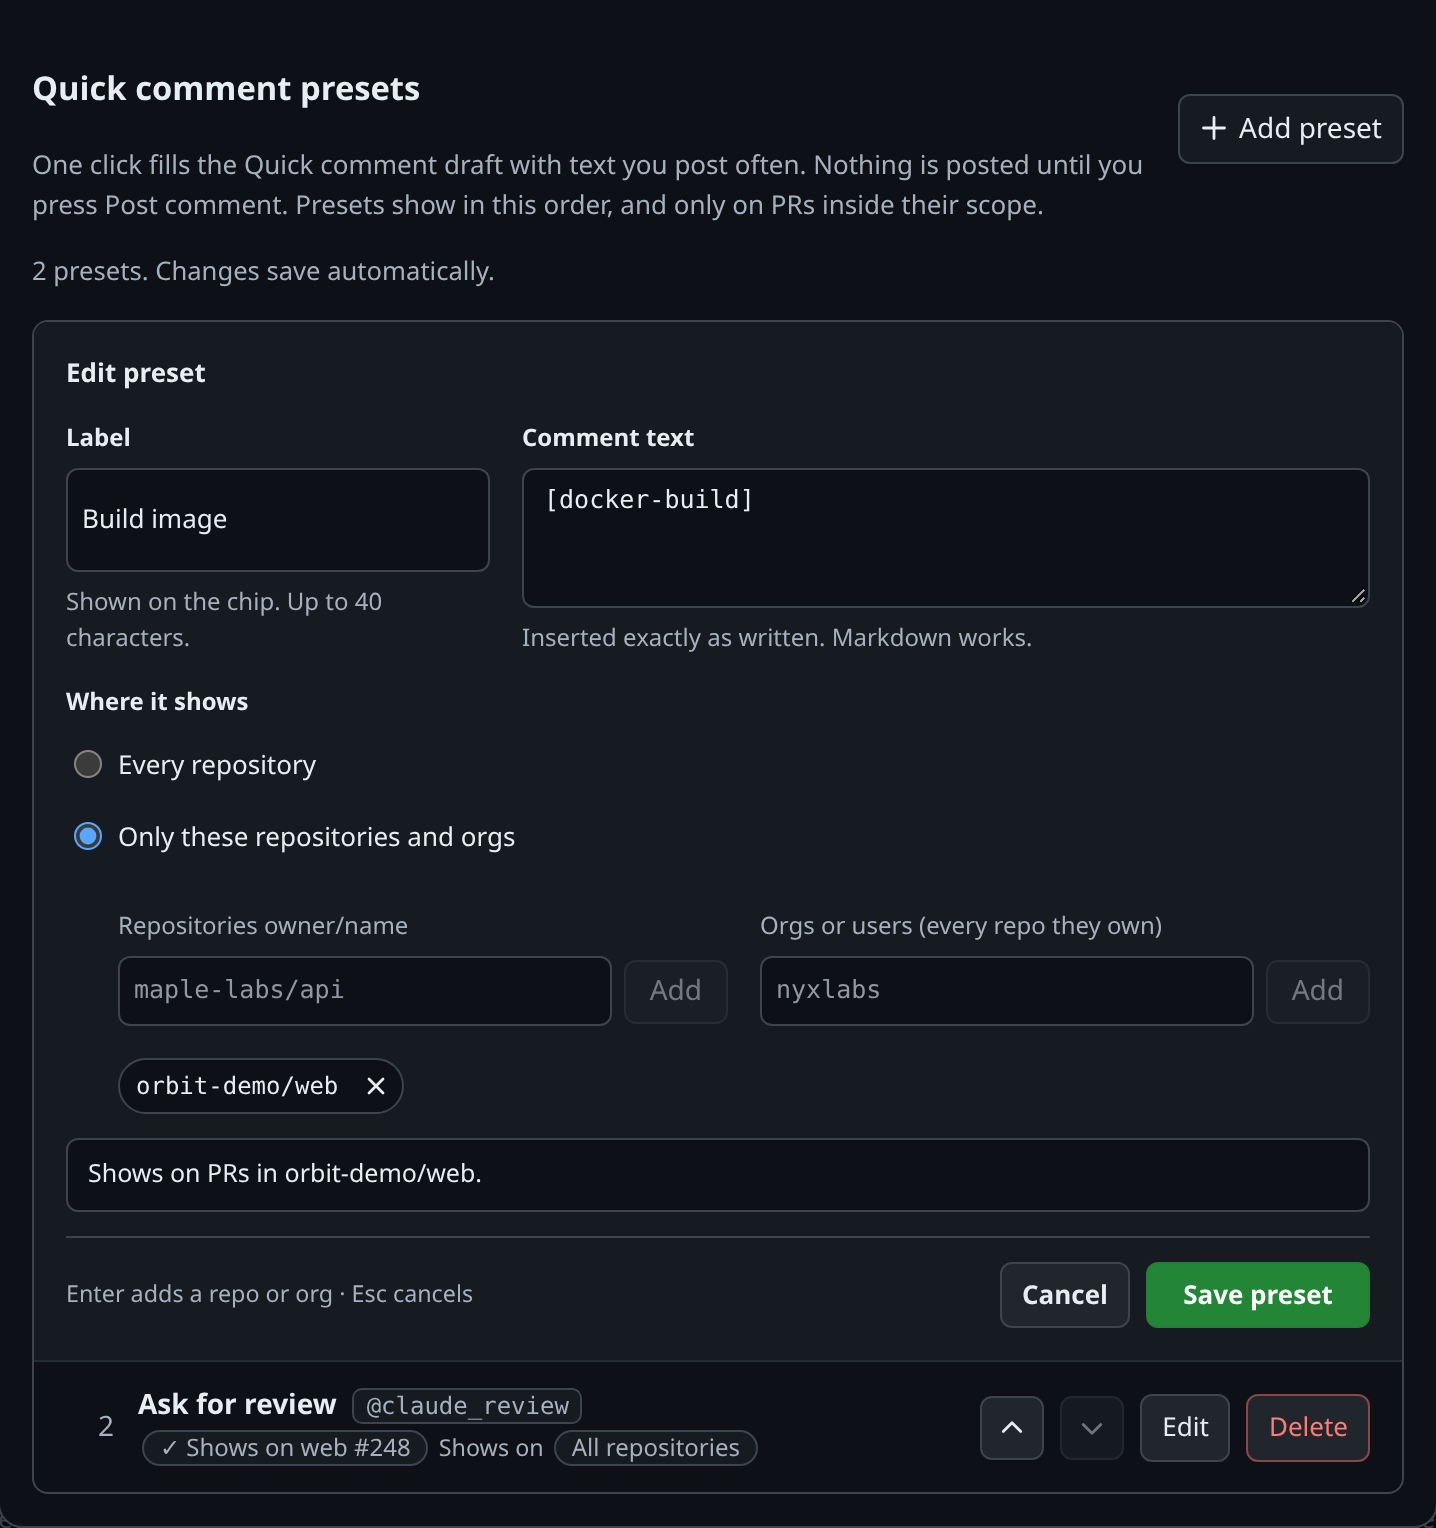
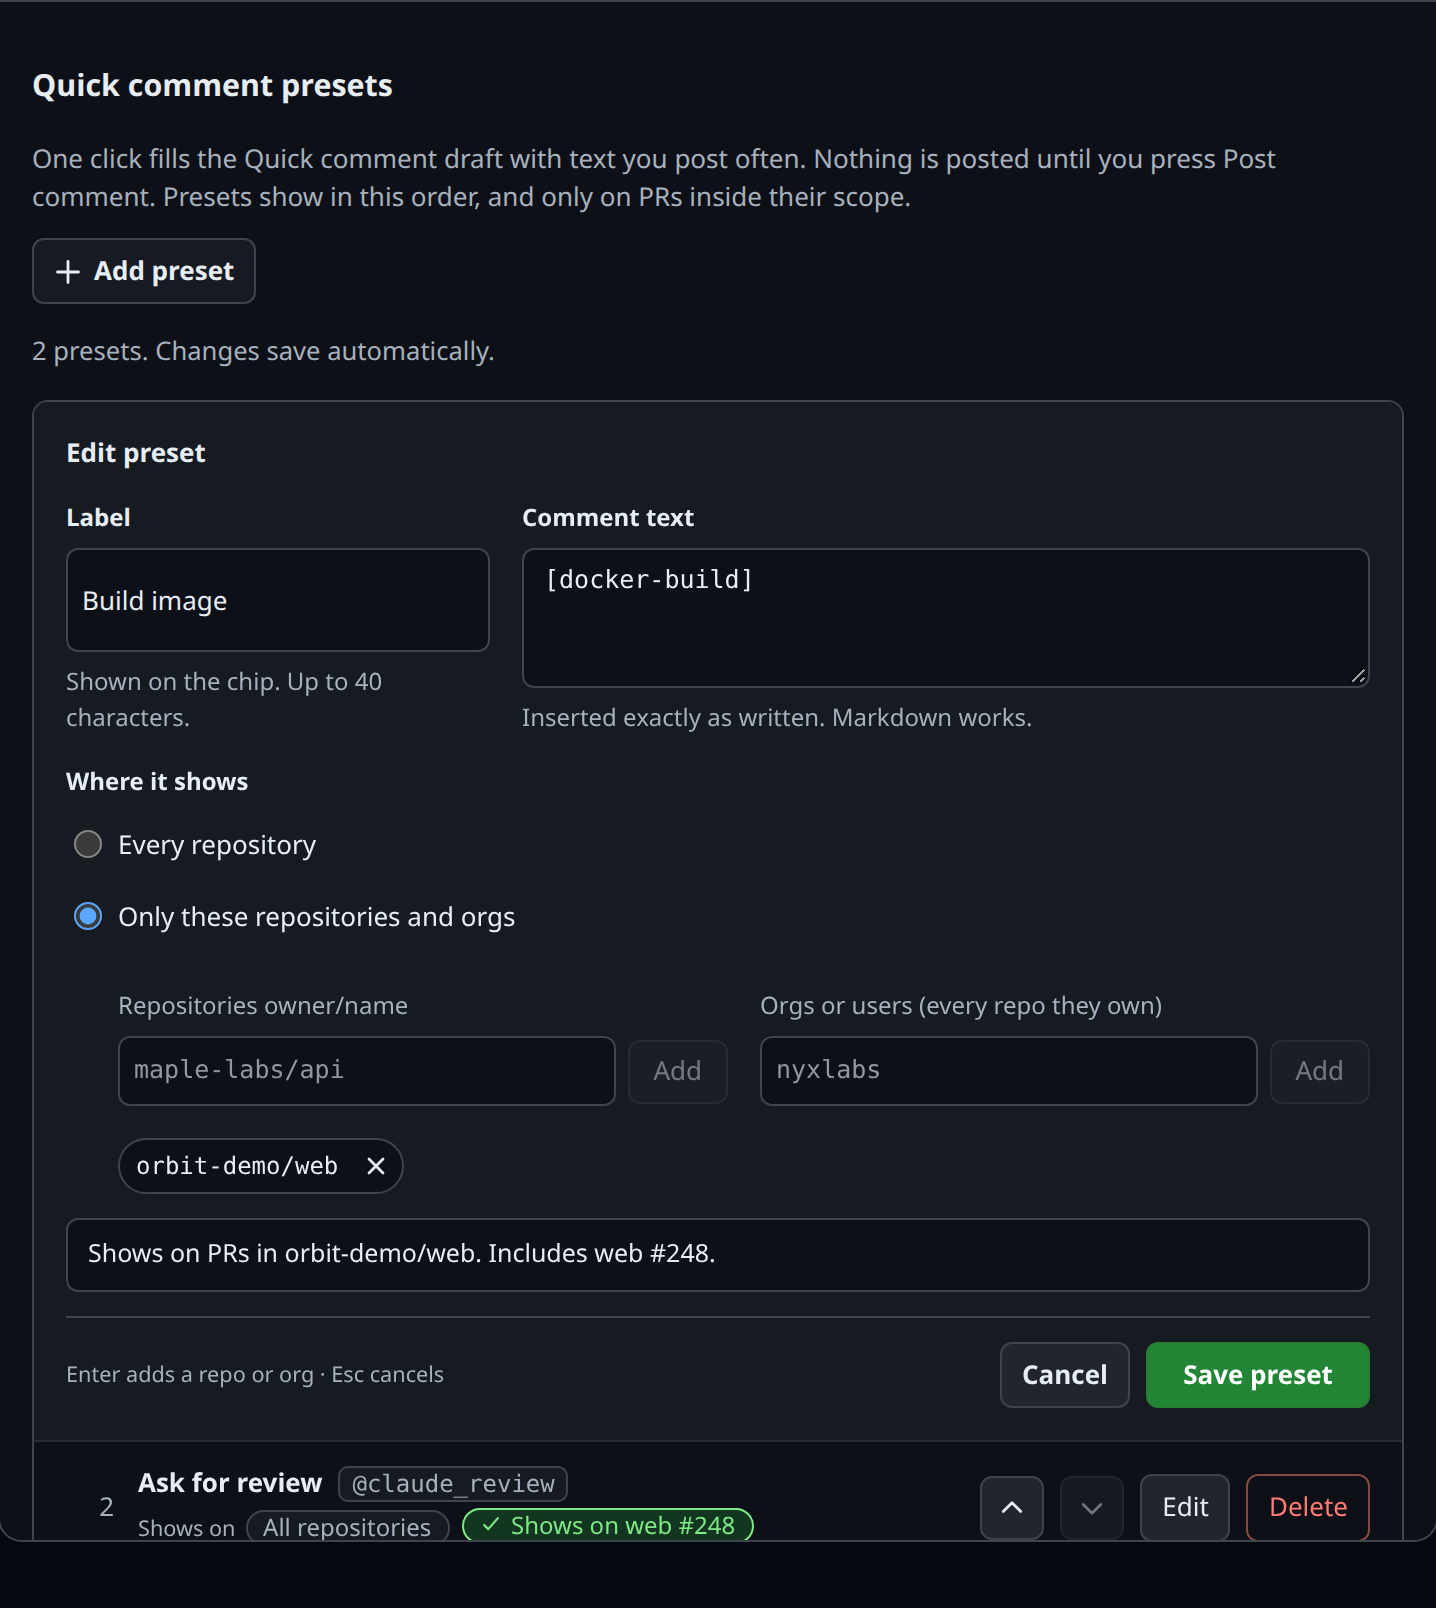
Align dialog controls, PR context and mobile rows with the flow export

diff --git a/public/quick-presets.js b/public/quick-presets.js
@@ -29,6 +29,7 @@ function token(k){const v=editor.pending[k].trim();if(!v)return true;const ok=k=
 function submit(e){e?.preventDefault();const {id,label,body,scoped}=editor;errors={};if(scoped){for(const k of ['repos','orgs'])token(k);}const p={id,label,body,...(scoped?{repos:editor.repos,orgs:editor.orgs}:{})};errors={...presetErrors(p,presets),...errors};if(Object.keys(errors).length){draw();focus('pf-'+(['label','body','repos','orgs','scope'].find(k=>errors[k])));return;}void change({action:'save',...p},()=>{status=`${id?'Saved':'Added'} “${label.trim()}”.`;draw();focus('edit-'+presets.find(x=>x.label===label.trim()).id);});}
 function move(p,delta){void change({action:'move',id:p.id,delta},()=>{status=`Moved “${p.label}” to position ${presets.findIndex(x=>x.id===p.id)+1} of ${presets.length}.`;draw();focus('edit-'+p.id);});}
 function remove(p,i){void change({action:'delete',id:p.id},()=>{status=`Deleted “${p.label}”.`;undo=()=>change({action:'restore',...p,position:i},()=>{status=`Restored “${p.label}”.`;draw();focus('edit-'+p.id);});draw();focus('undo-preset');});}
+function prLabel(){return `${context.repo.split('/').at(-1)} #${context.number}`;}
 function preview(p){
   if(!p.scoped)return 'Shows on every pull request.';
   const orList=a=>a.length<3?a.join(' or '):a.slice(0,-1).join(', ')+', or '+a.at(-1);
@@ -42,13 +43,13 @@ function form(){
   const emptyScope=editor.scoped&&!editor.repos.length&&!editor.orgs.length;
   const pendingRepo=editor.pending.repos.trim(), pendingOrg=editor.pending.orgs.trim();
   const validPending=(pendingRepo||pendingOrg)&&(!pendingRepo||repoPattern.test(pendingRepo))&&(!pendingOrg||orgPattern.test(pendingOrg));
-  return html`<form class="preset-form" novalidate @submit=${submit}><fieldset ?disabled=${busy}><legend>${editor.id?'Edit':'New'} preset</legend><div class="preset-fields"><div><label for="pf-label">Label</label><input id="pf-label" maxlength="40" placeholder="Build image" aria-invalid=${!!errors.label} aria-describedby="msg-label" .value=${editor.label} @input=${e=>{editor.label=e.target.value;delete errors.label;draw();}}>${msg('label','Shown on the chip. Up to 40 characters.')}</div><div><label for="pf-body">Comment text</label><textarea rows="3" id="pf-body" maxlength="4000" placeholder="[docker-build]" aria-invalid=${!!errors.body} aria-describedby="msg-body" .value=${editor.body} @input=${e=>{editor.body=e.target.value;delete errors.body;draw();}}></textarea>${msg('body','Inserted exactly as written. Markdown works.')}</div></div><fieldset class="scope-choice"><legend>Where it shows</legend>${[false,true].map(s=>html`<label><input type="radio" name="scope" .checked=${s===editor.scoped} @change=${()=>{editor.scoped=s;errors={};draw();if(s)focus('pf-repos');}}> ${s?'Only these repositories and orgs':'Every repository'}</label>`)}</fieldset>${editor.scoped?html`<div class="scope-columns">${tokens('repos')}${tokens('orgs')}</div>`:nothing}<p id="pf-scope" role="status" data-warning=${emptyScope} tabindex="-1">${preview(editor)}</p>${msg('scope')}<div class="preset-actions"><small class="preset-hint-key">Enter adds a repo or org · Esc cancels</small><button type="button" @click=${cancel}>Cancel</button><button class="primary" type="submit" aria-describedby="pf-scope" ?disabled=${busy||(emptyScope&&!validPending)}>${busy?'Saving…':editor.id?'Save preset':'Add preset'}</button></div></fieldset></form>`;}
+  return html`<form class="preset-form" novalidate @submit=${submit}><fieldset ?disabled=${busy}><legend>${editor.id?'Edit':'New'} preset</legend><div class="preset-fields"><div><label for="pf-label">Label</label><input id="pf-label" maxlength="40" placeholder="Build image" aria-invalid=${!!errors.label} aria-describedby="msg-label" .value=${editor.label} @input=${e=>{editor.label=e.target.value;delete errors.label;draw();}}>${msg('label','Shown on the chip. Up to 40 characters.')}</div><div><label for="pf-body">Comment text</label><textarea rows="3" id="pf-body" maxlength="4000" placeholder="[docker-build]" aria-invalid=${!!errors.body} aria-describedby="msg-body" .value=${editor.body} @input=${e=>{editor.body=e.target.value;delete errors.body;draw();}}></textarea>${msg('body','Inserted exactly as written. Markdown works.')}</div></div><fieldset class="scope-choice"><legend>Where it shows</legend>${[false,true].map(s=>html`<label><input type="radio" name="scope" .checked=${s===editor.scoped} @change=${()=>{editor.scoped=s;errors={};draw();if(s)focus('pf-repos');}}> ${s?'Only these repositories and orgs':'Every repository'}</label>`)}</fieldset>${editor.scoped?html`<div class="scope-columns">${tokens('repos')}${tokens('orgs')}</div>`:nothing}<p id="pf-scope" role="status" data-warning=${emptyScope} tabindex="-1">${preview(editor)}${context&&!emptyScope?` ${matchesQuickComment(editor.scoped?editor:{},context.repo)?'Includes':'Not on'} ${prLabel()}.`:''}</p>${msg('scope')}<div class="preset-actions"><small class="preset-hint-key">Enter adds a repo or org · Esc cancels</small><button type="button" @click=${cancel}>Cancel</button><button class="primary" type="submit" aria-describedby="pf-scope" ?disabled=${busy||(emptyScope&&!validPending)}>${busy?'Saving…':editor.id?'Save preset':'Add preset'}</button></div></fieldset></form>`;}
 function row(p,i){if(editor?.id===p.id)return form();if(deleting===p.id)return html`<strong>Delete “${p.label}”?</strong><p>This removes the preset, not any posted comments.</p><button @click=${cancel}>Cancel</button> <button class="preset-error" id="confirm-preset" @click=${()=>remove(p,i)}>Delete preset</button>`;
   const tags=[...(p.repos??[]),...(p.orgs??[]).map(o=>'org '+o)];if(!tags.length)tags.push(p.repos||p.orgs?'No repositories':'All repositories');
-  return html`<div class="preset-item"><span class="preset-number">${i+1}</span><div><div class="preset-summary"><strong>${p.label}</strong><code>${p.body}</code></div><small>${context&&matchesQuickComment(p,context.repo)?html`<span class="scope-badge">✓ Shows on ${context.repo.split('/').at(-1)} #${context.number}</span>`:nothing} Shows on ${tags.slice(0,3).map(t=>html`<span class="scope-badge" data-repo=${t.includes('/')}>${t}</span>`)} ${tags.length>3?html`<span title=${tags.slice(3).join(', ')}>+${tags.length-3} more</span>`:nothing}</small></div><div class="preset-actions"><button aria-label=${'Move '+p.label+' up'} ?disabled=${busy||!i} @click=${()=>move(p,-1)}>${icon('m3 10 5-5 5 5')}</button><button aria-label=${'Move '+p.label+' down'} ?disabled=${busy||i===presets.length-1} @click=${()=>move(p,1)}>${icon('m3 6 5 5 5-5')}</button><button id=${'edit-'+p.id} ?disabled=${busy} @click=${()=>edit(p)}>Edit</button><button id=${'del-'+p.id} ?disabled=${busy} @click=${()=>{reset();deleting=p.id;draw();focus('confirm-preset');}}>Delete</button></div></div>`;}
+  return html`<div class="preset-item"><span class="preset-number">${i+1}</span><div><div class="preset-summary"><strong>${p.label}</strong><code>${p.body}</code></div><small>Shows on ${tags.slice(0,3).map(t=>html`<span class="scope-badge" data-repo=${t.includes('/')}>${t}</span>`)} ${tags.length>3?html`<span title=${tags.slice(3).join(', ')}>+${tags.length-3} more</span>`:nothing}${context&&matchesQuickComment(p,context.repo)?html`<span class="scope-badge here">${icon('m3 8 3 3 7-8')}Shows on ${prLabel()}</span>`:nothing}</small></div><div class="preset-actions"><button aria-label=${'Move '+p.label+' up'} ?disabled=${busy||!i} @click=${()=>move(p,-1)}>${icon('m3 10 5-5 5 5')}</button><button aria-label=${'Move '+p.label+' down'} ?disabled=${busy||i===presets.length-1} @click=${()=>move(p,1)}>${icon('m3 6 5 5 5-5')}</button><button id=${'edit-'+p.id} ?disabled=${busy} @click=${()=>edit(p)}>Edit</button><button id=${'del-'+p.id} ?disabled=${busy} @click=${()=>{reset();deleting=p.id;draw();focus('confirm-preset');}}>Delete</button></div></div>`;}
 function draw(){if (!$('quick-comment-editor')) return;
-  if($('preset-context')){const n=context?presets.filter(p=>matchesQuickComment(p,context.repo)).length:0;$('preset-context').textContent=context?`For your comment on ${context.repo.split('/').at(-1)} #${context.number} · ${n===0?'No presets show on this PR yet.':n===1?'1 preset shows on this PR.':`${n} presets show on this PR.`}`:'';}
-  render(html`${leavePrompt?html`<div class="discard-preset" role="alert"><strong>${editor?.id?`Discard your changes to “${presets.find(p=>p.id===editor.id)?.label}”?`:'Discard this new preset? It hasn’t been saved.'}</strong><button id="keep-editing" @click=${keepEditing}>Keep editing</button><button @click=${()=>$('settings-modal').close()}>Discard and leave</button></div>`:nothing}<div class="preset-heading"><div>${$('settings-modal')?html`<h3>Quick comment presets</h3>`:html`<h1>Quick comment presets</h1>`}<p>One click fills the Quick comment draft with text you post often. Nothing is posted until you press Post comment. Presets show in this order, and only on PRs inside their scope.</p></div>${presets.length?html`<button class="primary" id="new-preset" ?disabled=${busy} @click=${()=>edit()}>${icon('M8 2v12M2 8h12')} Add preset</button>`:nothing}</div><div class="preset-status" role="status">${status || (presets.length ? `${presets.length} preset${presets.length===1?'':'s'}. Changes save automatically.`:'')} ${retry?html`<button @click=${retry}>Retry</button>`:undo?html`<button id="undo-preset" @click=${undo}>Undo</button>`:nothing}</div>${!presets.length&&!editor?html`<div class="preset-empty"><strong>No presets yet</strong><p>Save comments you post often, like [docker-build] or @claude_review.</p><button class="primary" id="new-preset" @click=${()=>edit()}>Create your first preset</button></div>`:nothing}<ol class="preset-list">${editor&&!editor.id?html`<li>${form()}</li>`:nothing}${repeat(presets,p=>p.id,(p,i)=>html`<li>${row(p,i)}</li>`)}</ol>`,$('quick-comment-editor'));}
+  if($('preset-context')){const n=context?presets.filter(p=>matchesQuickComment(p,context.repo)).length:0;render(context?html`For your comment on <code>${prLabel()}</code> · ${n===0?'No presets show on this PR yet.':n===1?'1 preset shows on this PR.':`${n} presets show on this PR.`}`:nothing,$('preset-context')); }
+  render(html`${leavePrompt?html`<div class="discard-preset" role="alert"><span>${editor?.id?`Discard your changes to “${presets.find(p=>p.id===editor.id)?.label}”?`:'Discard this new preset? It hasn’t been saved.'}</span><div class="discard-actions"><button id="keep-editing" @click=${keepEditing}>Keep editing</button><button @click=${()=>$('settings-modal').close()}>Discard and close</button></div></div>`:nothing}<div class="preset-heading"><div>${$('settings-modal')?html`<h3>Quick comment presets</h3>`:html`<h1>Quick comment presets</h1>`}<p>One click fills the Quick comment draft with text you post often. Nothing is posted until you press Post comment. Presets show in this order, and only on PRs inside their scope.</p></div>${presets.length?html`<button class="primary" id="new-preset" ?disabled=${busy} @click=${()=>edit()}>${icon('M8 2v12M2 8h12')} Add preset</button>`:nothing}</div><div class="preset-status" role="status">${status || (presets.length ? `${presets.length} preset${presets.length===1?'':'s'}. Changes save automatically.`:'')} ${retry?html`<button @click=${retry}>Retry</button>`:undo?html`<button id="undo-preset" @click=${undo}>Undo</button>`:nothing}</div>${!presets.length&&!editor?html`<div class="preset-empty"><strong>No presets yet</strong><p>Save comments you post often, like [docker-build] or @claude_review.</p><button class="primary" id="new-preset" @click=${()=>edit()}>Create your first preset</button></div>`:nothing}<ol class="preset-list">${editor&&!editor.id?html`<li>${form()}</li>`:nothing}${repeat(presets,p=>p.id,(p,i)=>html`<li>${row(p,i)}</li>`)}</ol>`,$('quick-comment-editor'));}
 if ($('settings-modal')) {
   const modal=$('settings-modal');
   $('settings').onclick=()=>openSettings(); $('dismiss-settings').onclick=closeSettings;

diff --git a/public/index.html b/public/index.html
@@ -17,9 +17,9 @@
   <script type="module" src="/app.js"></script>
 </head>
 <body>
-  <dialog class="settings-page settings-frame" id="settings-modal" aria-labelledby="settings-title"><header class="preset-top"><div><h2 id="settings-title" tabindex="-1">Settings</h2><small id="preset-context"></small></div><button type="button" id="dismiss-settings" aria-label="Close settings">×</button></header><section id="quick-comment-editor" aria-label="Quick comment presets"></section></dialog>
+  <dialog class="settings-page settings-frame" id="settings-modal" aria-labelledby="settings-title"><header class="preset-top"><div><h2 id="settings-title" tabindex="-1">Settings</h2><small id="preset-context"></small></div><button type="button" id="dismiss-settings" aria-label="Close settings"><svg width="14" height="14" viewBox="0 0 16 16" fill="none" stroke="currentColor" stroke-width="1.6" aria-hidden="true"><path d="m4 4 8 8m0-8-8 8"/></svg></button></header><section id="quick-comment-editor" aria-label="Quick comment presets"></section></dialog>
   <div id="sticky-top">
-    <header><div><h1>gh-pull</h1><p class="subtitle">much better github pr dashboard</p></div><div class="account-controls"><button class="button-link" type="button" id="settings" aria-haspopup="dialog" hidden><svg width="14" height="14" viewBox="0 0 16 16" fill="none" stroke="currentColor" stroke-width="1.5" aria-hidden="true"><circle cx="8" cy="8" r="2.2"></circle><path d="M8 1.5v1.8M8 12.7v1.8M14.5 8h-1.8M3.3 8H1.5M12.6 3.4l-1.3 1.3M4.7 11.3l-1.3 1.3M12.6 12.6l-1.3-1.3M4.7 4.7L3.4 3.4"></path></svg>Settings</button><a id="install" class="button-link" hidden target="_blank" rel="noopener noreferrer">Manage repository access</a><button id="logout" type="button" hidden>Sign out</button><button id="refresh" type="button" data-tooltip="Refresh" aria-label="Refresh" hidden><svg viewBox="0 0 36 36" fill="none" stroke="currentColor" stroke-width="1.5" stroke-linecap="round" stroke-linejoin="round" aria-hidden="true"><path d="M6.7 11.5A13 13 0 0 1 29.3 11.5M29.3 6.5v5h-5M29.3 24.5A13 13 0 0 1 6.7 24.5M6.7 29.5v-5h5"/></svg><span id="refresh-countdown" aria-hidden="true">60</span></button></div></header>
+    <header><div><h1>gh-pull</h1><p class="subtitle">much better github pr dashboard</p></div><div class="account-controls"><button class="button-link" type="button" id="settings" aria-haspopup="dialog" aria-label="Settings" data-tooltip="Settings" hidden><svg width="16" height="16" viewBox="0 0 16 16" fill="none" stroke="currentColor" stroke-width="1.4" stroke-linejoin="round" aria-hidden="true"><path d="M6.9 1.5h2.2l.4 1.8 1.2.6 1.6-.9 1.5 1.5-.9 1.6.6 1.2 1.8.4v2.2l-1.8.4-.6 1.2.9 1.6-1.5 1.5-1.6-.9-1.2.6-.4 1.8H6.9l-.4-1.8-1.2-.6-1.6.9-1.5-1.5.9-1.6-.6-1.2-1.8-.4V6.9l1.8-.4.6-1.2-.9-1.6 1.5-1.5 1.6.9 1.2-.6z"></path><circle cx="8" cy="8" r="2.1"></circle></svg></button><a id="install" class="button-link" hidden target="_blank" rel="noopener noreferrer">Manage repository access</a><button id="logout" type="button" hidden>Sign out</button><button id="refresh" type="button" data-tooltip="Refresh" aria-label="Refresh" hidden><svg viewBox="0 0 36 36" fill="none" stroke="currentColor" stroke-width="1.5" stroke-linecap="round" stroke-linejoin="round" aria-hidden="true"><path d="M6.7 11.5A13 13 0 0 1 29.3 11.5M29.3 6.5v5h-5M29.3 24.5A13 13 0 0 1 6.7 24.5M6.7 29.5v-5h5"/></svg><span id="refresh-countdown" aria-hidden="true">60</span></button></div></header>
     <p id="auth-notice" role="alert" hidden></p>
     <p id="update-notice" role="status" hidden><a id="update-release" target="_blank" rel="noopener noreferrer"></a> is available. To update, run <button id="copy-update-command" type="button" data-tooltip="Copy update command" aria-label="Copy update command"><code id="update-command">gh pull stop &amp;&amp; gh extension upgrade pull &amp;&amp; gh pull</code> <span id="update-copy-symbol" aria-hidden="true"></span></button> in your terminal. <span id="update-copy-feedback"></span></p>
     <section id="signin" hidden aria-label="Sign in">

diff --git a/public/presets.css b/public/presets.css
@@ -1,4 +1,10 @@
-#settings-modal{box-sizing:border-box;width:min(720px,calc(100% - 32px));max-height:min(840px,calc(100dvh - 72px));padding:0;margin:56px auto 0;overflow-y:auto;overscroll-behavior:contain;color:var(--color-text);background:var(--color-page)}#settings-modal::backdrop{background:light-dark(rgb(31 35 40/.38),rgb(1 4 9/.65));overflow:hidden;overscroll-behavior:contain}#settings-modal .preset-top{padding:12px 16px;border-bottom:1px solid var(--color-border)}#settings-modal h2{font-size:16px;margin:0}#settings-modal #quick-comment-editor{padding:16px}#settings-modal .discard-preset{border:1px solid var(--color-warning-text);padding:10px;border-radius:6px}#settings-modal .preset-heading{align-items:center}#settings-modal .preset-heading>div{flex:1;min-width:200px}@media(max-width:37.5em){#settings-modal{width:100%;height:100dvh;max-width:none;max-height:none;margin:0;border-radius:0}}
+#settings-modal #dismiss-settings{width:28px;height:28px;min-height:0;padding:0;background:transparent;border:0;color:var(--color-muted)}
+#settings-modal #preset-context{font-size:12.5px;color:var(--color-muted)}#preset-context code{color:var(--color-text)}
+#settings-modal .preset-heading{flex-direction:column;align-items:flex-start;gap:10px}#settings-modal .preset-heading>div{flex:none;min-width:0;max-width:640px}#settings-modal #new-preset{align-self:flex-start;font-weight:600}
+#settings-modal .scope-badge.here{align-items:center;gap:4px;border-color:var(--color-success-text);color:var(--color-success-text);background:var(--color-success-bg)}#settings-modal .here svg{width:11px;height:11px}#settings-modal [id^=del-]{background:transparent}
+#settings-modal .discard-preset[role=alert]{display:flex;align-items:center;flex-wrap:wrap;justify-content:space-between;gap:8px;background:var(--color-warning-bg);padding:10px 12px;margin-bottom:14px}.discard-actions{display:flex;gap:8px;margin-left:auto}.discard-actions button{font-weight:600}.discard-actions button:last-child{background:transparent;color:light-dark(#b62324,#ff7b72);border-color:currentColor}
+@media(max-width:37.5em){#settings-modal .preset-item{display:flex;align-items:stretch;flex-direction:column;gap:6px}#settings-modal .preset-number{text-align:left}#settings-modal .preset-item .preset-actions{justify-content:flex-end}}
+#settings-modal{font-family:inherit;font-size:13px;box-sizing:border-box;width:min(720px,calc(100% - 32px));max-height:min(840px,calc(100dvh - 72px));padding:0;margin:56px auto 0;overflow-y:auto;overscroll-behavior:contain;color:var(--color-text);background:var(--color-page)}#settings-modal::backdrop{background:light-dark(rgb(31 35 40/.38),rgb(1 4 9/.65));overflow:hidden;overscroll-behavior:contain}#settings-modal .preset-top{padding:12px 16px;border-bottom:1px solid var(--color-border)}#settings-modal h2{font-size:16px;margin:0}#settings-modal #quick-comment-editor{padding:16px}#settings-modal .discard-preset{border:1px solid var(--color-warning-text);padding:10px;border-radius:6px}@media(max-width:37.5em){#settings-modal{width:100%;height:100dvh;max-width:none;max-height:none;margin:0;border-radius:0}}
 .comment-popover:popover-open{padding:0;box-sizing:border-box;width:min(460px,calc(100vw - 16px));border-radius:10px;background:var(--color-page)}
 .qc-header,.qc-footer{display:flex;align-items:center;gap:8px;padding:10px 12px}
 .qc-header{border-bottom:1px solid var(--color-border)}.qc-header h2{margin:0;font-size:13px}.qc-header span{font:12px ui-monospace,monospace;color:var(--color-muted);overflow:hidden;white-space:nowrap;text-overflow:ellipsis}.qc-header .preset-close{margin-left:auto;background:transparent;color:var(--color-muted);border:0;width:28px;height:28px;padding:0;font-size:18px}

diff --git a/public/style.css b/public/style.css
@@ -208,15 +208,13 @@ button:hover:not(:disabled), .button-link:hover {
 }
 
 #settings {
-  gap: 6px;
-  min-height: 32px;
-  padding: 0 10px;
+  width: 36px;
+  height: 36px;
+  padding: 0;
   border: 1px solid var(--color-border);
-  border-radius: 6px;
-  background: var(--color-surface);
+  border-radius: 50%;
+  background: transparent;
   color: var(--color-text);
-  font-size: 13px;
-  font-weight: 500;
 }
 
 button:disabled {
